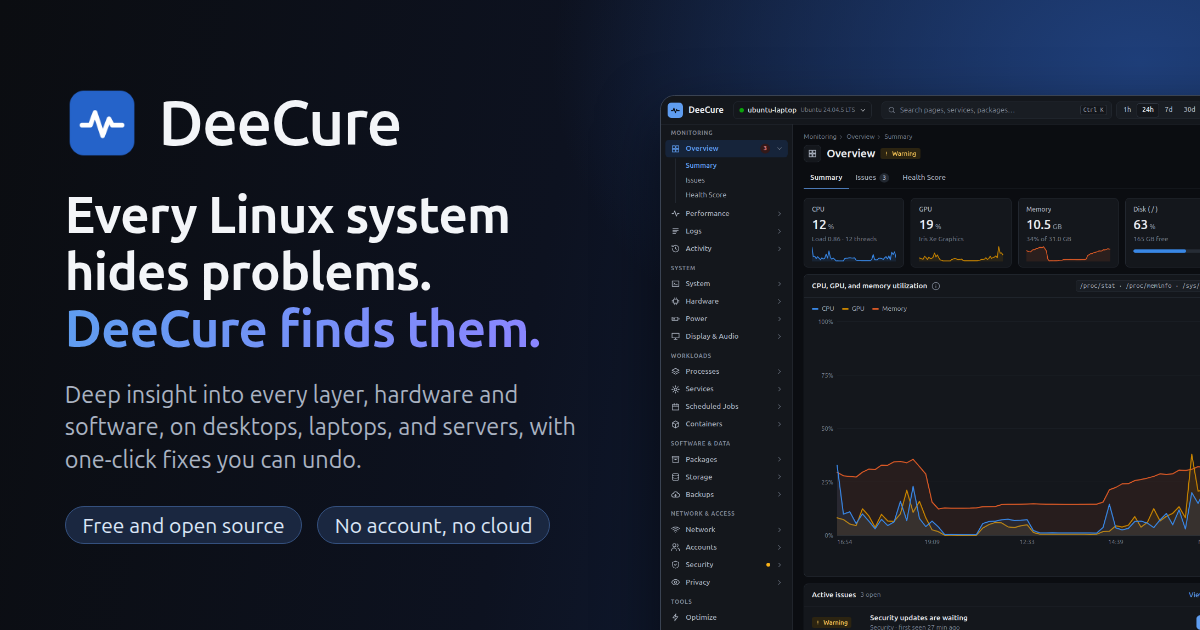
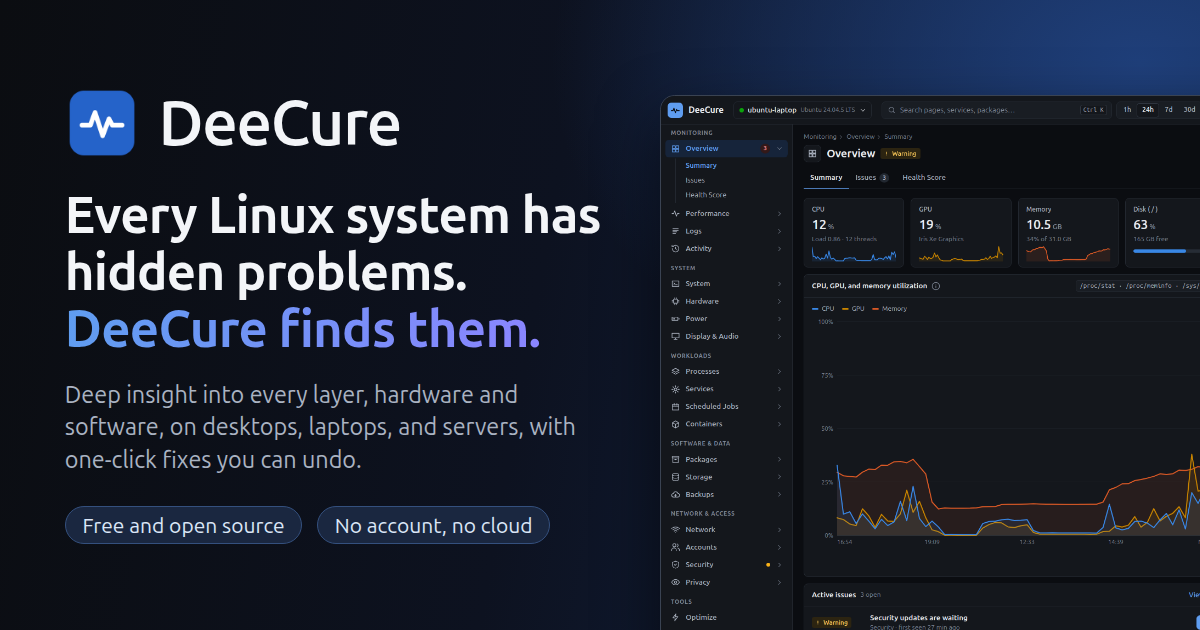
feat(site): tagline 'Every Linux system has hidden problems'
'Hides problems' sounded as if the system hid them on purpose. The problems are hidden, but nobody hides them. The same words as the README's first sentence. Changed on the page, in its search and link-preview text, on the share poster (rendered again), and in the website doc.

Changed region(s): [[0.1233, 0.3921, 0.4008, 0.4825], [0.4317, 0.3016, 0.5242, 0.3921]]

diff --git a/site/index.html b/site/index.html
@@ -4,7 +4,7 @@
   <meta charset="utf-8">
   <meta name="viewport" content="width=device-width, initial-scale=1">
   <title>DeeCure: Linux system monitor, health check, and optimizer for Ubuntu</title>
-  <meta name="description" content="Every Linux system hides problems. DeeCure is a free, open-source app that checks every layer of your Ubuntu desktop, laptop, or server, explains what it finds in plain English, and fixes problems with one click, with undo. No account, no cloud.">
+  <meta name="description" content="Every Linux system has hidden problems. DeeCure is a free, open-source app that checks every layer of your Ubuntu desktop, laptop, or server, explains what it finds in plain English, and fixes problems with one click, with undo. No account, no cloud.">
   <link rel="canonical" href="https://krisskad0.github.io/DeeCure/">
   <meta name="robots" content="index, follow, max-image-preview:large">
   <meta name="theme-color" content="#2563c9">
@@ -12,15 +12,15 @@
 
   <meta property="og:type" content="website">
   <meta property="og:site_name" content="DeeCure">
-  <meta property="og:title" content="Every Linux system hides problems. DeeCure finds them.">
+  <meta property="og:title" content="Every Linux system has hidden problems. DeeCure finds them.">
   <meta property="og:description" content="Deep insight into every layer, hardware and software, on desktops, laptops, and servers, with one-click fixes you can undo. Free and open source, for Ubuntu 24.04 and 26.04.">
   <meta property="og:url" content="https://krisskad0.github.io/DeeCure/">
   <meta property="og:image" content="https://krisskad0.github.io/DeeCure/assets/og-image.png">
   <meta property="og:image:width" content="1200">
   <meta property="og:image:height" content="630">
-  <meta property="og:image:alt" content="Every Linux system hides problems. DeeCure finds them. Beside it, the DeeCure Overview on Ubuntu with health score 95.">
+  <meta property="og:image:alt" content="Every Linux system has hidden problems. DeeCure finds them. Beside it, the DeeCure Overview on Ubuntu with health score 95.">
   <meta name="twitter:card" content="summary_large_image">
-  <meta name="twitter:title" content="Every Linux system hides problems. DeeCure finds them.">
+  <meta name="twitter:title" content="Every Linux system has hidden problems. DeeCure finds them.">
   <meta name="twitter:description" content="A free, open-source tool that finds hidden problems on Ubuntu desktops, laptops, and servers, and fixes them with undo. No account, no cloud.">
   <meta name="twitter:image" content="https://krisskad0.github.io/DeeCure/assets/og-image.png">
 
@@ -114,7 +114,7 @@
       <div class="wrap hero-in">
         <div class="hero-copy">
           <p class="eyebrow"><span class="dot" aria-hidden="true"></span> Free and open source · Ubuntu 24.04 and 26.04</p>
-          <h1>Every Linux system hides problems. <span class="grad">DeeCure finds them.</span></h1>
+          <h1>Every Linux system has hidden problems. <span class="grad">DeeCure finds them.</span></h1>
           <p class="lead">Every Linux computer, desktop or server, has some issue in the hardware or the software that you cannot see and that is hard to investigate. DeeCure checks every layer deeply, explains what it finds in plain English, and fixes problems with one click. Every fix can be undone.</p>
           <div class="install" id="hero-install">
             <span class="install-label">Install in one command</span>

diff --git a/scripts/og-image.html b/scripts/og-image.html
@@ -43,7 +43,7 @@
 <body>
   <div class="copy">
     <div class="brand"><img src="../site/assets/icon-192.png" alt=""><span>DeeCure</span></div>
-    <h1>Every Linux system hides problems. <span class="grad">DeeCure finds them.</span></h1>
+    <h1>Every Linux system has hidden problems. <span class="grad">DeeCure finds them.</span></h1>
     <p>Deep insight into every layer, hardware and software, on desktops, laptops, and servers, with one-click fixes you can undo.</p>
     <div class="pills"><span>Free and open source</span><span>No account, no cloud</span></div>
   </div>

diff --git a/docs/06-packaging/website.md b/docs/06-packaging/website.md
@@ -26,7 +26,7 @@ DeeCure's landing page lives at **https://krisskad0.github.io/DeeCure/**. It sho
 
 ## Share image
 
-The poster people see when the site or the repo is shared. It says "Every Linux system hides problems. DeeCure finds them." beside the dark Overview screenshot. Its source is [scripts/og-image.html](../../scripts/og-image.html), which uses the site's font, icon, and screenshot.
+The poster people see when the site or the repo is shared. It says "Every Linux system has hidden problems. DeeCure finds them." beside the dark Overview screenshot. Its source is [scripts/og-image.html](../../scripts/og-image.html), which uses the site's font, icon, and screenshot.
 
 1. Copy the screenshots into `site/assets/screens/` first (the folder is ignored by git).
 2. Render the site image, from the repo folder:
